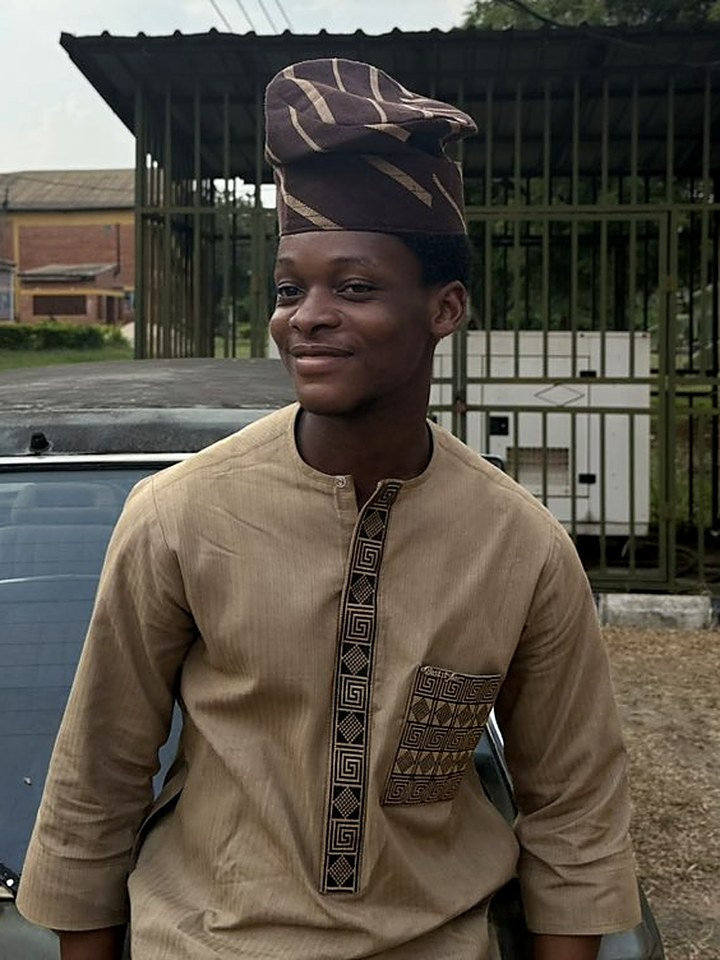
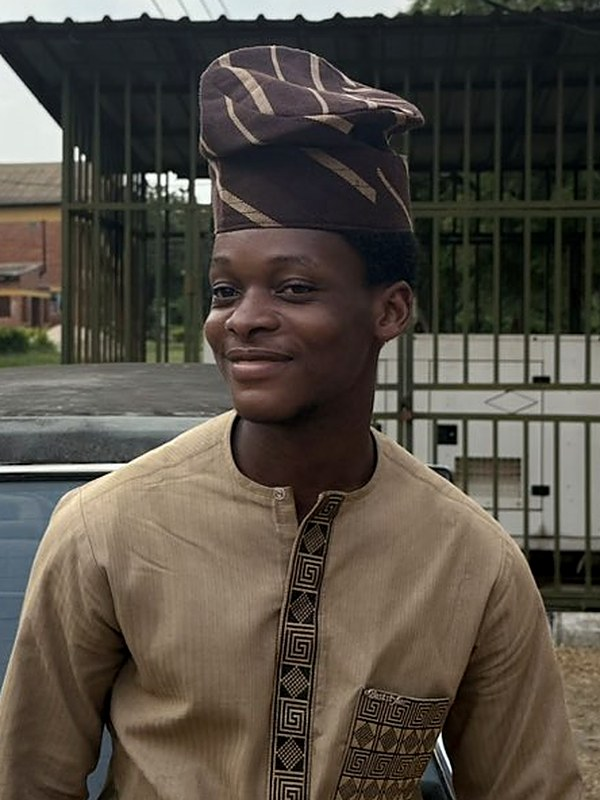
Hero portrait: closer crop
- Tighter crop on the head and upper chest (600x800, 3:4); EXIF still stripped

Claude-Session: https://claude.ai/code/session_01ARhYgc1JY9rXDd3WyFDEFs

diff --git a/components/Hero.tsx b/components/Hero.tsx
@@ -26,8 +26,8 @@ export function Hero() {
                 <Image
                   src="/headshot-v6.jpg"
                   alt="Portrait of Abdulhameed Oreagba, smiling slightly, in a brown patterned cap and a tan shirt with embroidered trim."
-                  width={720}
-                  height={960}
+                  width={600}
+                  height={800}
                   preload
                   fetchPriority="high"
                   sizes="(min-width: 468px) 372px, calc(100vw - 90px)"
